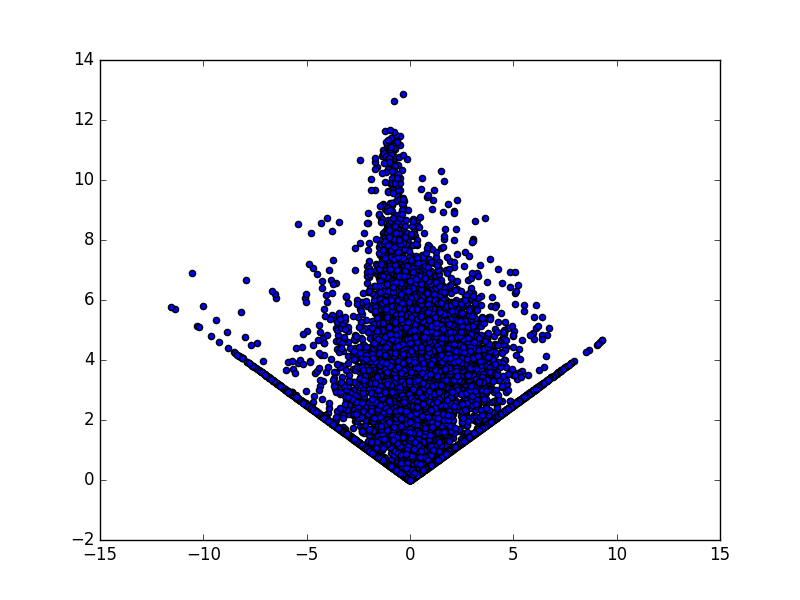
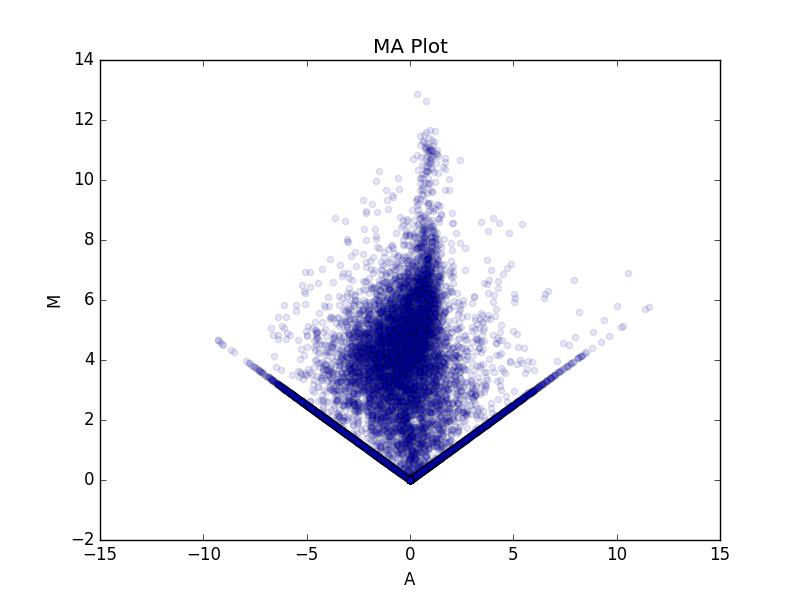
Catch up 2

diff --git a/day3-homework/kmer-extender.py b/day3-homework/kmer-extender.py
@@ -14,41 +14,68 @@ import fasta
 # In the command line, the data type is string, so it must be converted to data type integer.
 k = int( sys.argv[3] )
 
-# Get each target sequence, one at a time - will work with one at a time, so need a 'for' loop.
+# Let's work first with the query sequence, store it, and then work line-by-line with the targets...
+
+# Make a blank dictionary to put each unique kmer into with corresponding positions in the query sequence.
+# Since we are going to be referring to the query more often, it makes sense to hash this one, rather 
+# than hashing the target
+Q_kmer_positions = {}
+
+# Now, we can import the query sequence, and using the FASTAReader build the dictionary.
+for ident2, sequence2 in fasta.FASTAReader( open(sys.argv[2]) ):
+    
+    # In case the sequence has any differences in case, which could cause problems in string matching, 
+    # make all sequence upper case
+    sequence2 = sequence2.upper()
+
+    # Now, we will take each kmer in the query sequence we are working with, and make the dictionary.
+    for j in range( 0, len(sequence2) - k ):
+        kmer = sequence2[j : j + k ]
+
+        # For each kmer, determine if it is new. There are only two cases. Either it is new, or it is not.
+        # If it is new, add the kmer as a key and put the position into a new list. 
+        # If it is not new, append the list with the new position.
+        if kmer not in Q_kmer_positions:
+            Q_kmer_positions[ kmer ] = [ j ]
+        elif kmer in Q_kmer_positions:
+            Q_kmer_positions[ kmer ].append( j )
+
+        # Diagnostic:
+        # print Q_kmer_positions
+
+# Now that we have our query dictionary, let's work with the target sequences one at a time.
 for ident, sequence in fasta.FASTAReader( open(sys.argv[1]) ):
     
     # In case the sequence has any differences in case, which could cause problems in string matching, 
     # make all sequence upper case.
     sequence = sequence.upper()
-    
-    # Make a blank dictionary to put each unique kmer into with corresponding positions in the target sequence.
-    T_kmer_positions = {}
-    
-    # Now place each kmer into the dictionary with the positions at which it appears in the sequence.
-    # We will work with one at a time, so need a 'for' loop.
-    for i in range( 0, len(sequence) - k ):
-        T_kmer = sequence [i : i + k ]
-        
-        # For each kmer, determine if it is new. There are only two cases. Either it is new, or it is not.
-        # If it is new, add the kmer as a key and put the position into a new list. 
-        # If it is not new, append the list with the new position.
-        if T_kmer not in T_kmer_positions:
-            T_kmer_positions[ T_kmer ] = [ i ]
-        elif T_kmer in T_kmer_positions:
-            T_kmer_positions[ T_kmer ].append( i )
 
-        # Now that we have made the dictionary with all of the kmers in the target sequence we are working with,
-        # get each query sequence - will work with one at a time, so again need a 'for' loop.            
-        for ident2, sequence2 in fasta.FASTAReader( open(sys.argv[2]) ):
+    # We want to get ALL of the possible matches, so we will do an exhaustive search at EVERY nucleotide.
+    for i in range( 0, len(sequence) - k ):
+        kmer = sequence [i : i + k ]
+        
+        # Now what we want to do is check the query dictionary to see if the kmer from the target exists.
+        # If not, we will continue on down the line. If so, then we need to perform the extension matching.
+        if kmer not in Q_kmer_positions:
+            continue
+        elif kmer in Q_kmer_positions:
             
-            # In case the sequence has any differences in case, which could cause problems in string matching, 
-            # make all sequence upper case
-            sequence2 = sequence2.upper()
+            # Diagnostic:
+            # print kmer, Q_kmer_positions[ kmer ]
             
-            # Now, we will take each kmer in the query sequence we are working with, and check it agains the dictionary.
-            # We will again work with one kmer at a time, so we need a 'for' loop.
-            for j in range( 0, len(sequence2) - k ):
-                Q_kmer = sequence2[j : j + k ]
+            for kmer, value in Q_kmer_positions.iteritems():
+            
+                # Diagnostic:
+                print kmer, i, j
+                # Let's start at the first nucleotide in the kmer match and start moving to the left.
+                # while (2 + 2 == 4):
+                
+
+
+''''            
+   
+          
+            
             
                 # RIGHT EXTENSION
                 # We check to see if the query sequence is in the target sequence dictionary.
@@ -97,8 +124,7 @@ for ident, sequence in fasta.FASTAReader( open(sys.argv[1]) ):
                 # print "Position(s) in target %s" % T_kmer_positions[ T_kmer ],
                 # print "Position in query: %s" % j
                 
-                
-"""              
+             
                 # Left extension    
                     while Q_kmer in T_kmer_positions:
                         i = i - 1       
@@ -117,4 +143,4 @@ for ident, sequence in fasta.FASTAReader( open(sys.argv[1]) ):
                     print T_kmer, 
                     print "Position(s) in target %s" % T_kmer_positions[ T_kmer ],
                     print "Position in query: %s" % j
-"""
+'''

diff --git a/day4-homework/02-histogram.py b/day4-homework/02-histogram.py
@@ -9,6 +9,10 @@ import numpy as np
 import pandas as pd
 import matplotlib.pyplot as plt
 
+# Try plt.style,use('538')
+# Try plt.style.use('ggplot')
+# Look up matplotlib galleries for more inspiration
+
 df = pd.read_table( sys.argv[1] )
 df_roi = df[ "FPKM" ] > 0
 df_hist = df[ df_roi ][ "FPKM" ]
@@ -29,9 +33,10 @@ hist_values = np.log10(df_hist)
 # print max(hist_values)
 
 plt.figure()
-n, bins, patches = plt.hist(hist_values, range = [-4, 4], bins = 50)
+plt.hist(hist_values, range = [-4, 4], bins = 50)
 plt.savefig( "FPKM-hist.png" )
 plt.title( "Frequency of log(FPKM)" )
 plt.xlabel( "log(FPKM)" )
 plt.ylabel( "occurrences of log(FPKM)" )
 plt.show()
+

diff --git a/day3-homework/kmer-extender-v4.py b/day3-homework/kmer-extender-v4.py
@@ -116,6 +116,8 @@ for ident, sequence in fasta.FASTAReader( open(sys.argv[1]) ):
 for ident in sorted( hits, key = len, reverse = True ):                
     print ident, hits
 
+# This does not print the output in a nice, line-by-line format.
+# I will need to come back and change this at a later date, to prettify the output.
                     
                 
                 

diff --git a/day4-homework/03-MAplot.py b/day4-homework/03-MAplot.py
@@ -29,15 +29,15 @@ M = (FPKMX - FPKMY)
 A = (1/2)*(FPKMX + FPKMY)
 
 # Diagnostic
-print M
+# print M
 # print type(M)
-print A
+# print A
 # print type(A)
 
 plt.figure()
-plt.scatter( M, A )
+plt.scatter( A, M, alpha=0.1 )
 plt.title( "MA Plot" )
-plt.xlabel( "M" )
-plt.ylabel( "A" )
+plt.ylabel( "M" )
+plt.xlabel( "A" )
 plt.savefig( "MA-plot.png" )
 plt.show()

diff --git a/day4-homework/01-timecourse.py b/day4-homework/01-timecourse.py
@@ -90,8 +90,7 @@ df_meta_rep = pd.read_csv( sys.argv[3] )
 ctab_rep_dir = sys.argv[4]
 
 fem_Sxl_rep = []
-mal_Sxl_rep = []
-df_roi_rep = df_meta_rep[ "sex" ] == "female"
+mal_Sxl_rep = []
 df_roi2_rep = df_meta_rep[ "sex" ] == "male"
 
 # Diagnostic:

diff --git a/day5-lunch/promoter-identifier.py b/day5-lunch/promoter-identifier.py
@@ -34,3 +34,4 @@ for line in f.readlines():
 
 
 
+ 
